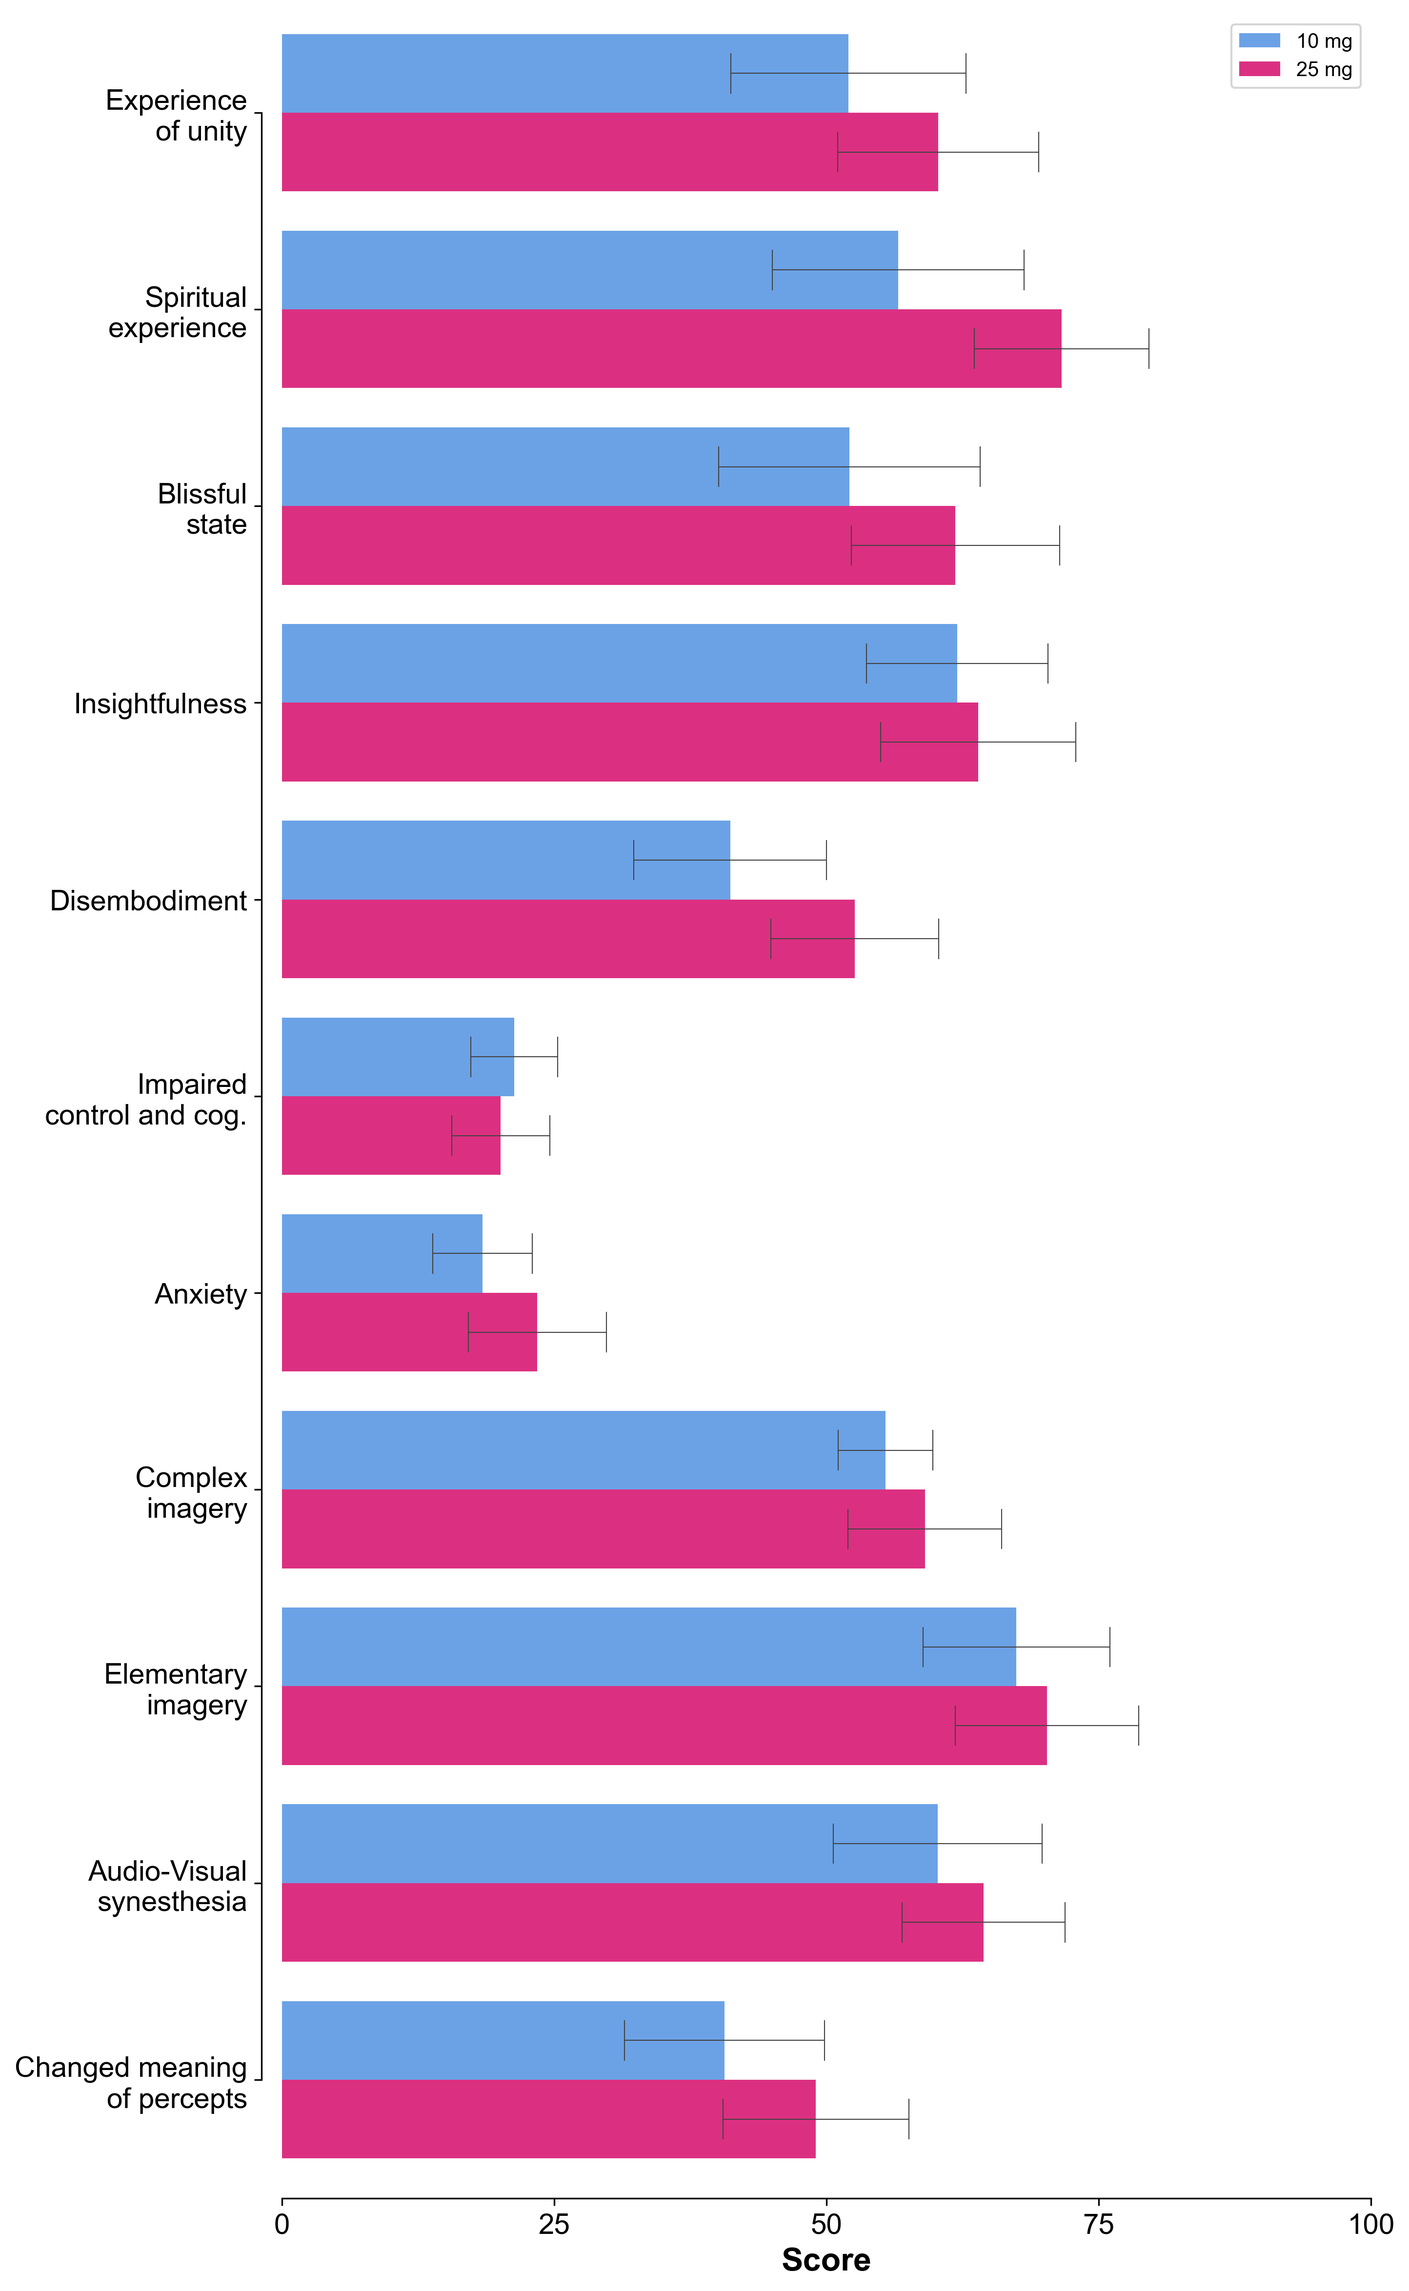
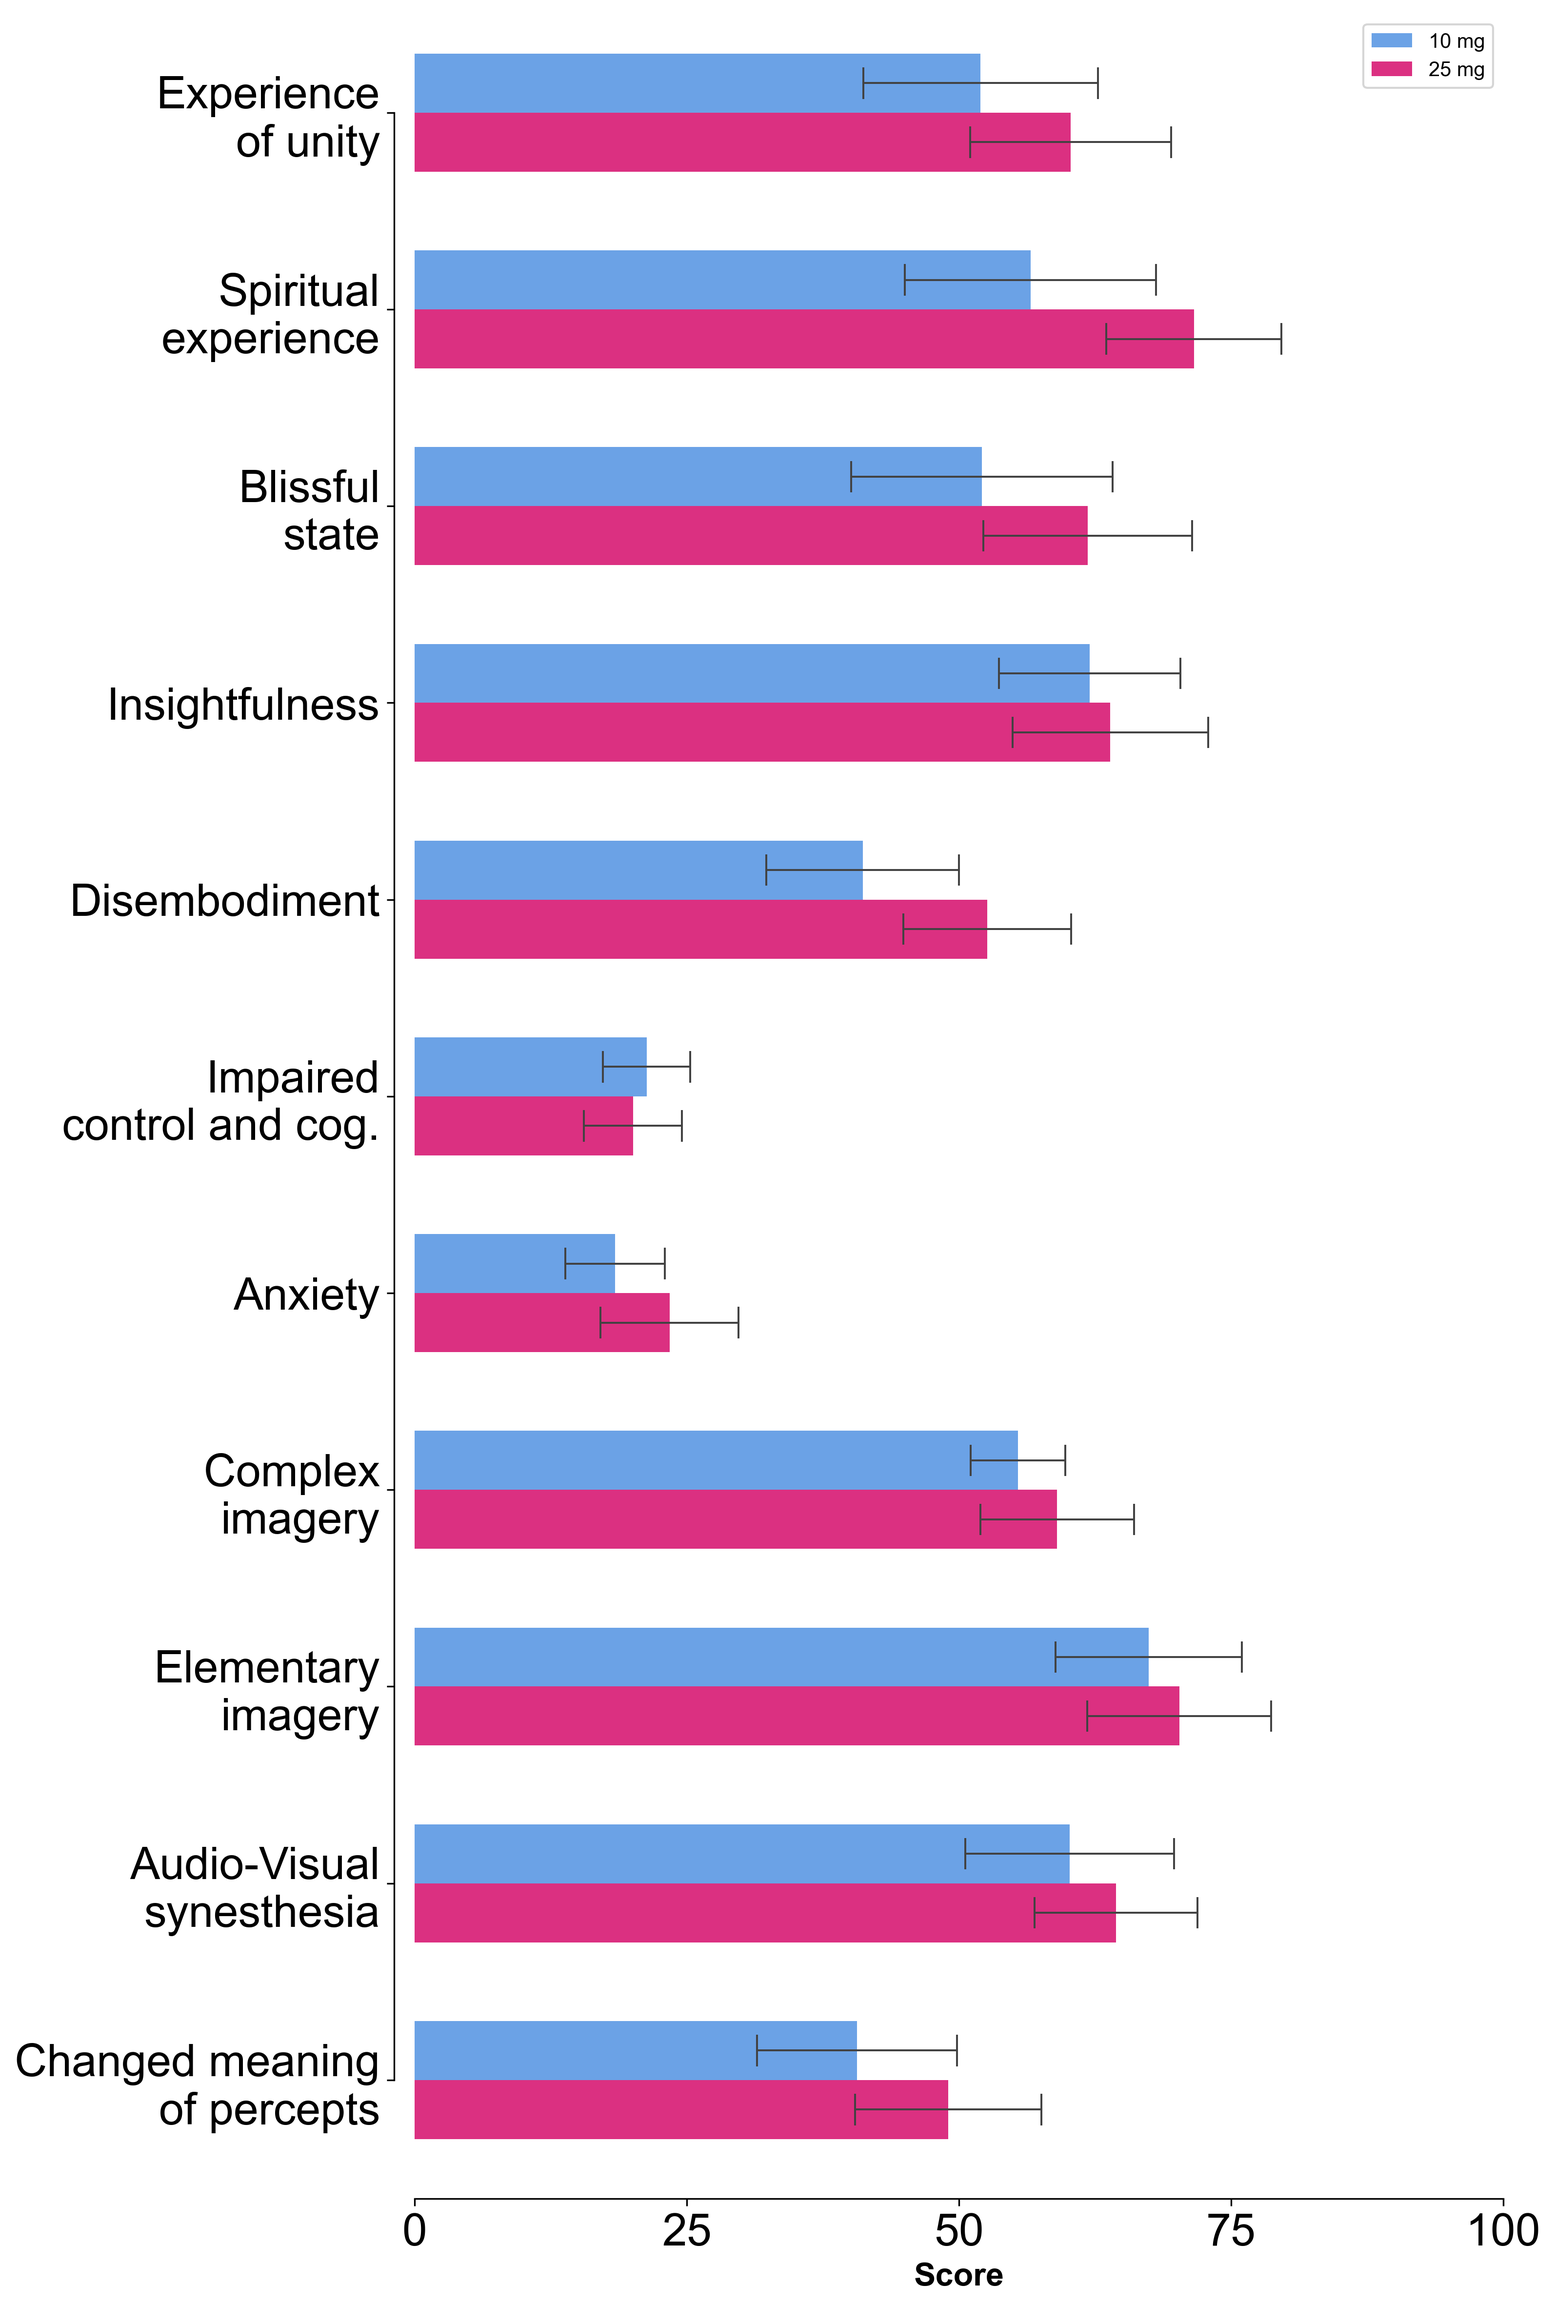
5dasc adjust

diff --git a/src/plots.py b/src/plots.py
@@ -278,9 +278,9 @@ class Controllers():
                 x='score',
                 hue='tp',
                 errorbar="se",
-                capsize=0.2,
-                errwidth=0.5,
-                width=0.8,
+                capsize=0.15,
+                errwidth=0.95,
+                width=0.6,
                 palette = {
                     'A0': '#56A0FB',
                     'B0': '#F71480'},)
@@ -300,15 +300,10 @@ class Controllers():
         custom_legend_labels = ["10 mg", "25 mg"]
         plt.legend(legend_handles, custom_legend_labels)
 
-        ax.tick_params(axis='both', which='major', labelsize=config.ticklabel_fontsize)
+        sns.despine(top=True, right=True, left=False, bottom=False, offset=10, trim=True)
+        ax.tick_params(axis='both', which='major', labelsize=22)
         ax.yaxis.grid(False)
         ax.xaxis.grid(False)
-        sns.despine(top=True, right=True, left=False, bottom=False, offset=10, trim=True)
-
-        if horizontal:
-            filename_tag='horizontal'
-        else:
-            filename_tag='vertical'
 
         Helpers.save_fig(
             fig = fig,
@@ -333,6 +328,10 @@ class Controllers():
             'Z_MTS', 'Z_OTS', 'Z_PAL', 'Z_RTI', 'Z_SWM',
             'HAMA', 'MADRS', 'ESAPS',
         ])]
+
+
+
+        import pdb; pdb.set_trace()
 
         # Get rid of long 5dasc dim names
         tmp = df['pred'].copy()

diff --git a/run.py b/run.py
@@ -51,7 +51,7 @@ if False: # make histograms
         df=pd.read_csv(
             os.path.join(folders.data, 'pdp1_MASTER.csv')))
 
-if True: # make agg time evolution plots
+if False: # make agg time evolution plots
 
     plots.Controllers.make_agg_timeevols(
         df=pd.read_csv(
@@ -79,7 +79,7 @@ if False: # make cytokine correlation matrix
     plots.Controllers.make_cytokine_corrmat(
         df=pd.read_csv(os.path.join(folders.exports, 'pdp1_cytokine_delta_corrmat.csv')),)
 
-if False: # make bsl predictors correlation matrix
+if True: # make bsl predictors correlation matrix
 
     plots.Controllers.make_bslpreds_corrmat(
         df = pd.read_csv(os.path.join(folders.exports, 'pdp1_bslpreds_delta_corrmat.csv')),
